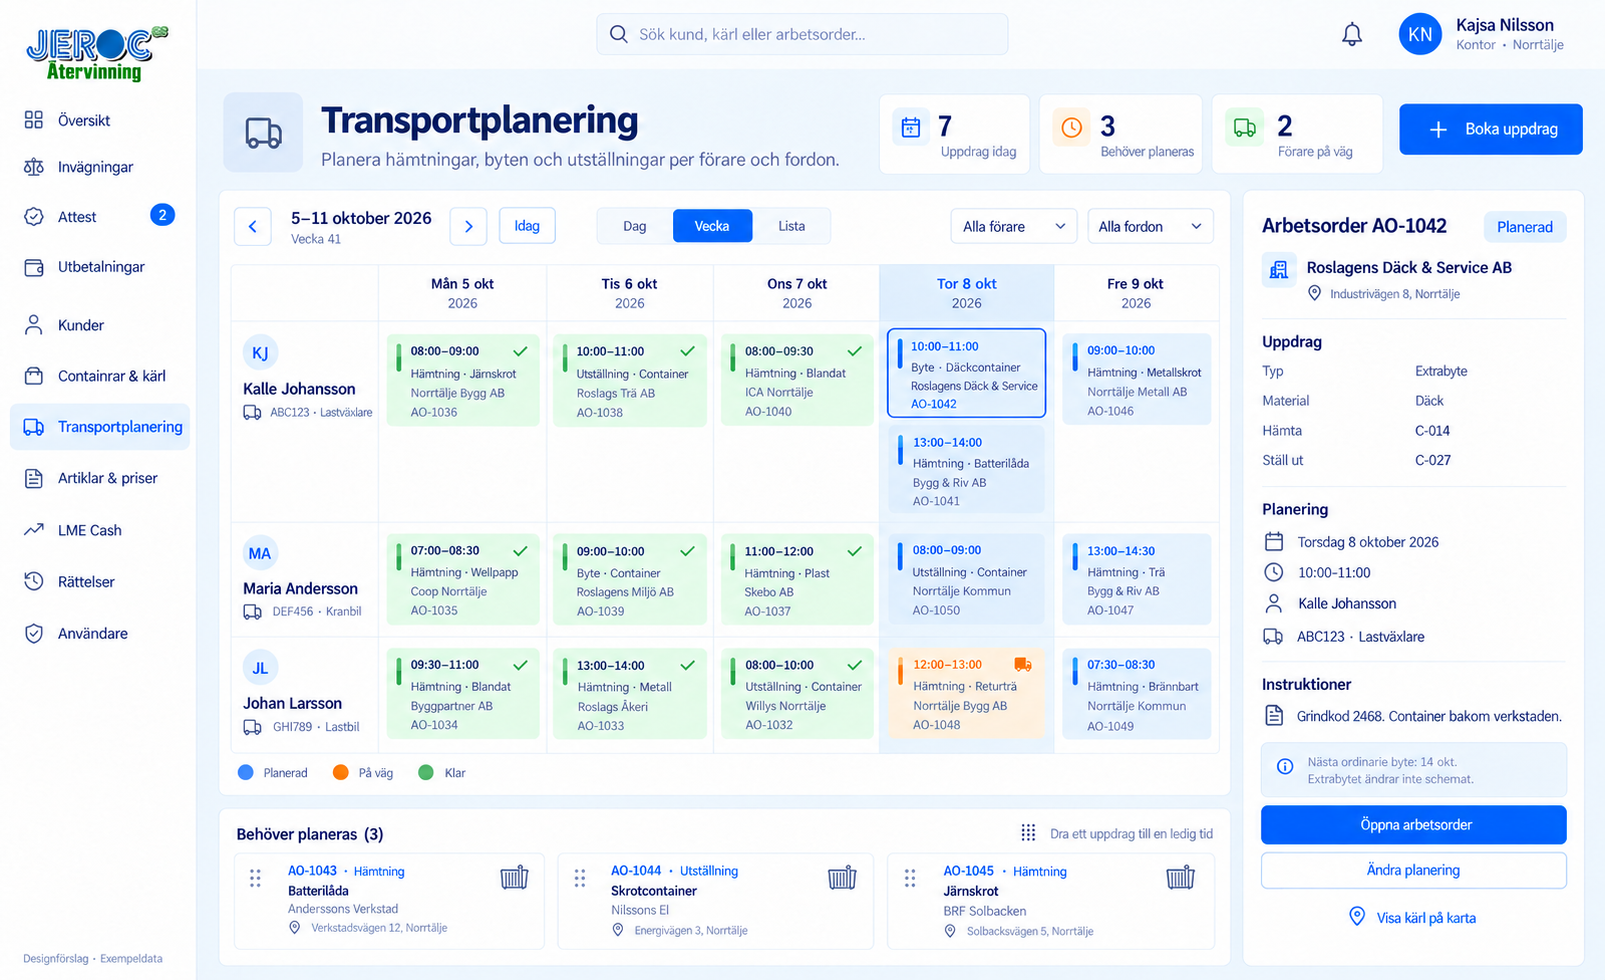
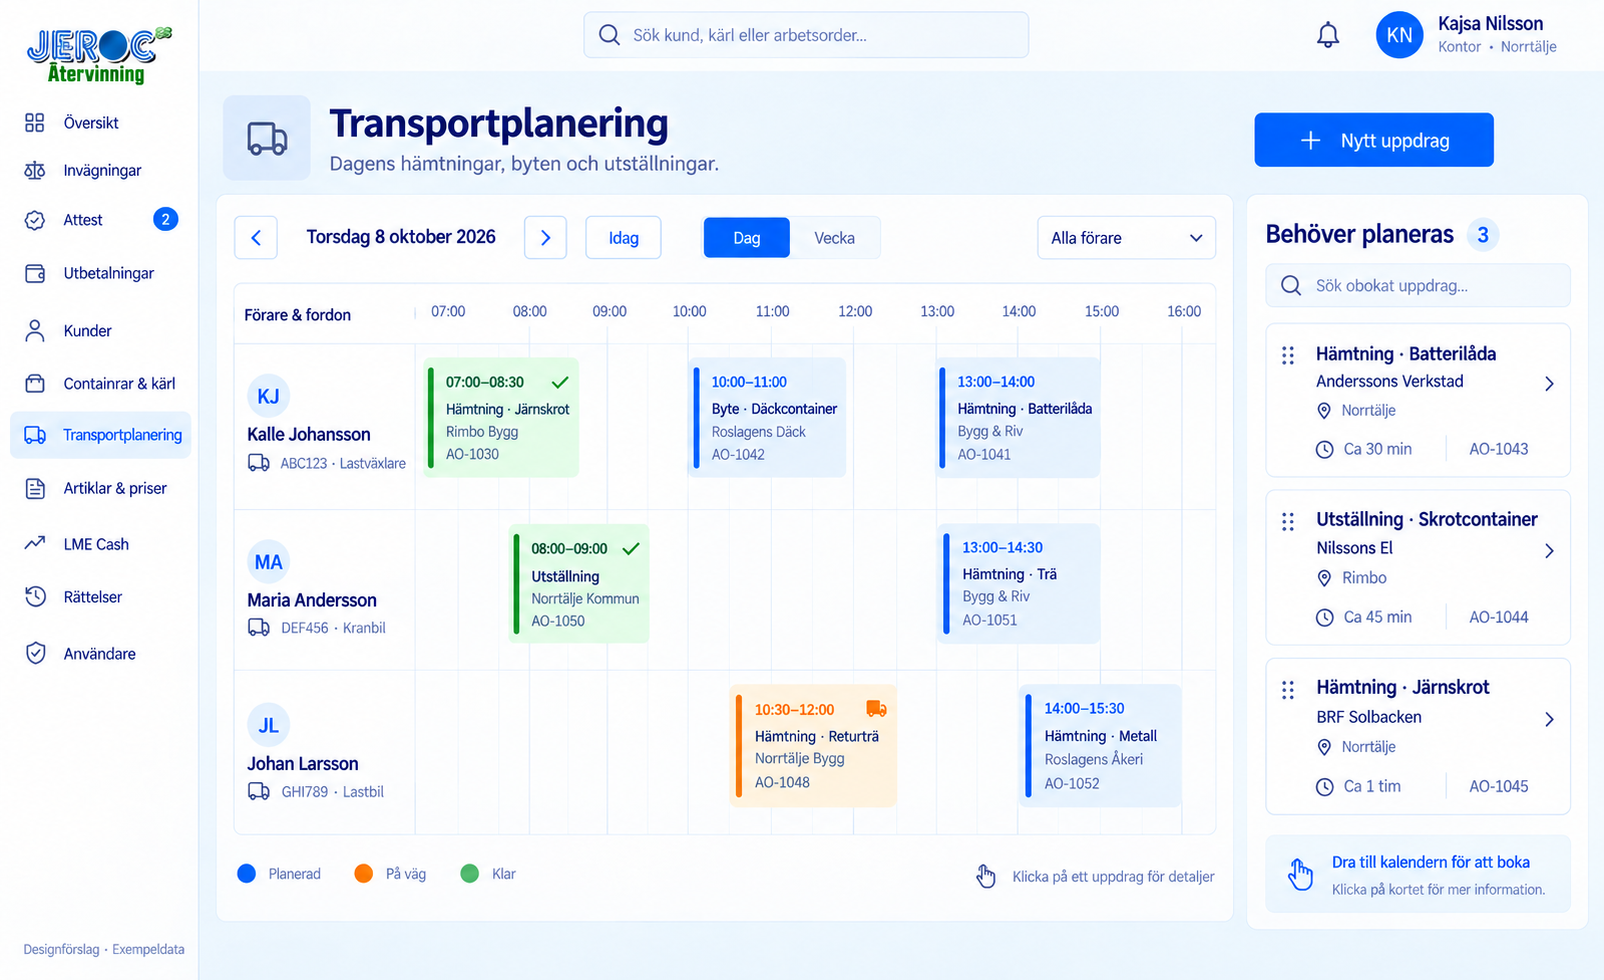
Simplify transport mockup with daily timeline and right task queue [skip render]

diff --git a/docs/mockups/kontor/README.md b/docs/mockups/kontor/README.md
@@ -153,9 +153,19 @@ den behövs, inte presenteras som en automatisk sensormätning.
 
 [Öppna kalendern](09_Transportplanering.png)
 
-Veckokalender med rader för förare och fordon, val för dag/vecka/lista och
-en kö med uppdrag som behöver planeras. Vald arbetsorder visar kund,
-adress, åtgärd, material, kärlnummer, tid, förare, fordon och instruktioner.
+Uppdaterad layout efter användarens återkoppling 2026-10-08. Mockupen visar
+dagsvyn som standard: förare och fordon på varsin rad och klockslag från
+vänster till höger. Överraden har datum, Idag, Dag/Vecka, förarfilter och
+Nytt uppdrag. Veckovyn planeras med dagar som kolumner och tid uppifrån
+och ner.
+
+**Behöver planeras** ligger i högerkolumnen och ersätter den tidigare
+ständigt öppna arbetsordern AO-1042. Korten visar uppdragstyp, kund, ort
+och uppskattad tidsåtgång. Kalenderkorten visar typ, kund och bokad tid.
+Ett tryck på ett kort i kalendern eller kön öppnar arbetsorderns detaljer
+i ett tillfälligt sidokort. Ett tydligt X stänger detaljerna och återgår
+till kön. Då visas adress, material, kärlnummer, förare, fordon och
+instruktioner vid behov. Obokade kort kan dras till kalendern för bokning.
 Kalenderns egen statusförklaring visar Planerad, På väg och Klar.
 
 Planeringen ska omfatta både hämtning, byte och utställning. En hämtning av
